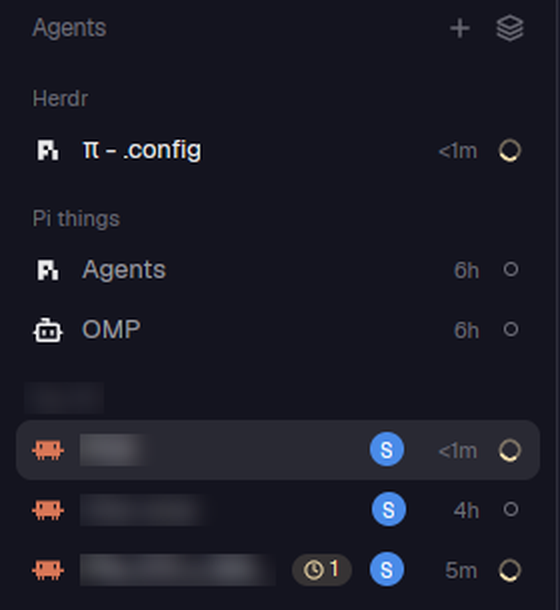
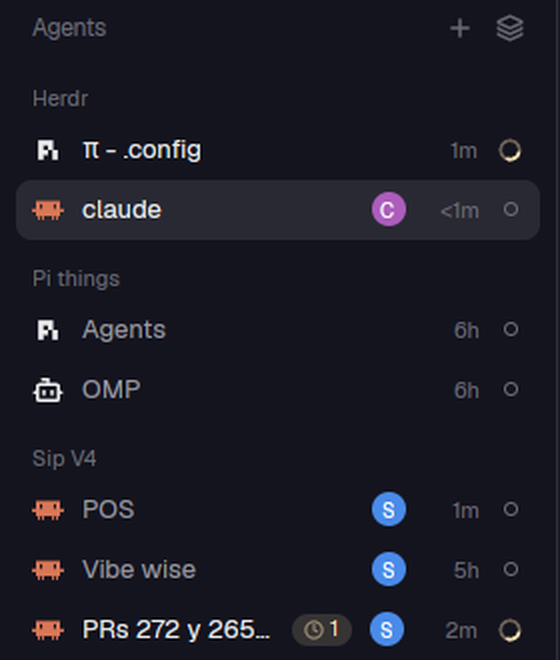
docs(herdr-app): unblurred screenshots, a fresh Claude Code in the hero, only usernames hidden in PRs

diff --git a/mods/relevo-agents/README.md b/mods/relevo-agents/README.md
@@ -4,8 +4,6 @@ Herdr's **Agents** list, plus a launcher menu, the account each agent runs on an
 
 ![The agents list](screenshot.png)
 
-*(Space and agent names of work projects are blurred in the screenshot.)*
-
 ## What it adds to the stock `agents` mod
 
 Everything else (priority sections, grouping by space, pins, sub-agents, durations, sorting) is Herdr's own.

diff --git a/mods/linear/README.md b/mods/linear/README.md
@@ -4,8 +4,6 @@ Your Linear tickets as a panel in Herdr.
 
 ![The Linear panel](screenshot.png)
 
-*(Ticket ids, titles and project names are blurred in the screenshot.)*
-
 ## What it does
 
 - Lists **My issues**, or any saved **View**, grouped by workflow state (In Progress, Todo, Merged, In QA, Backlog, Done);

diff --git a/mods/prs/README.md b/mods/prs/README.md
@@ -4,7 +4,7 @@ GitHub pull requests as a panel in Herdr, with a full PR dialog one click away.
 
 ![The PRs panel](screenshot.png)
 
-*(Titles, users and avatars are blurred in the screenshot.)*
+*(Usernames are blurred in the screenshot.)*
 
 ## What it does
 

diff --git a/README.md b/README.md
@@ -5,8 +5,6 @@ files (layouts, mods, keys, settings), so this folder *is* the app's look and be
 
 ![The piioni layout](hero.png)
 
-*(The terminal and work project names are blurred in the screenshots.)*
-
 ## The layout: `piioni`
 
 ```
